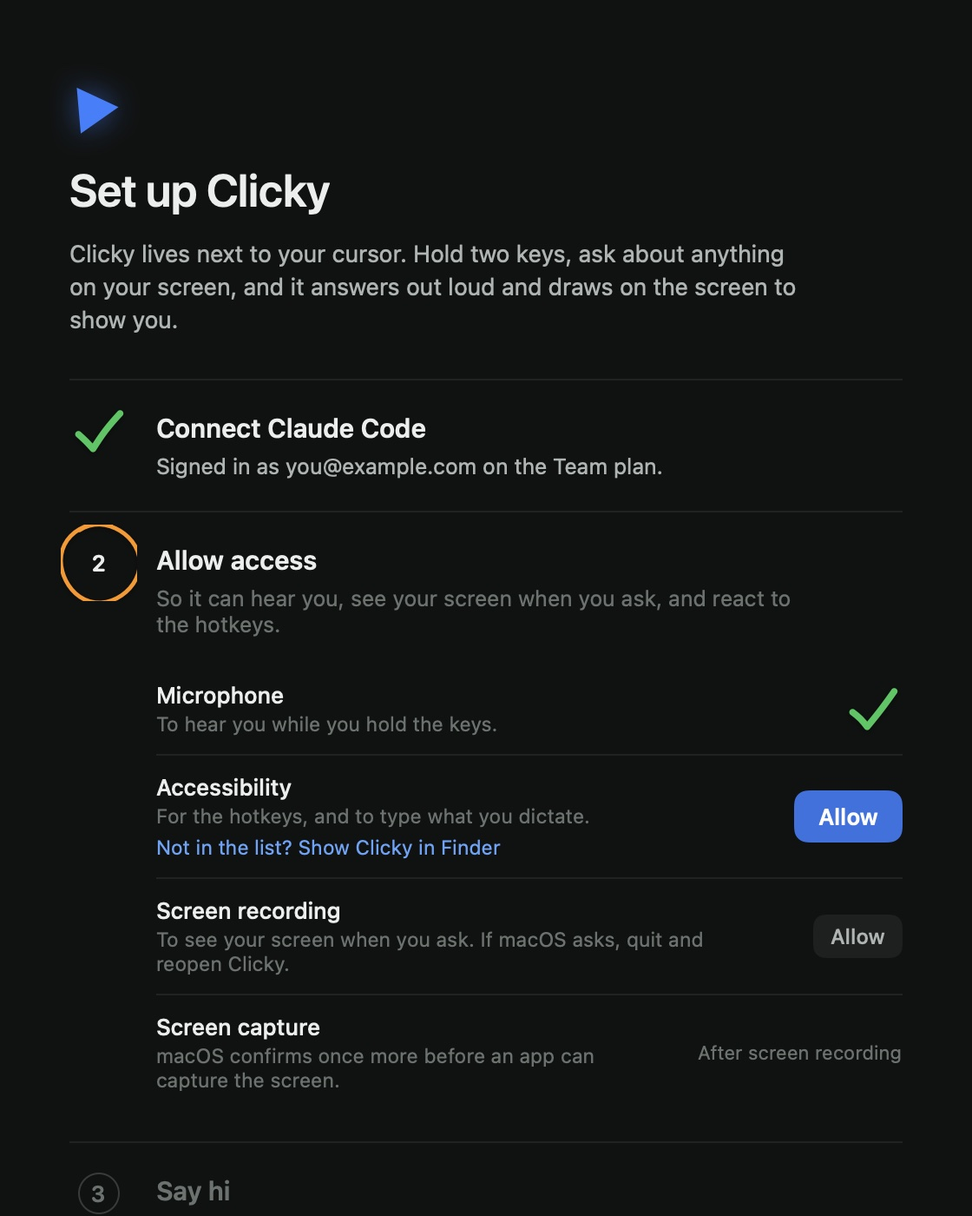
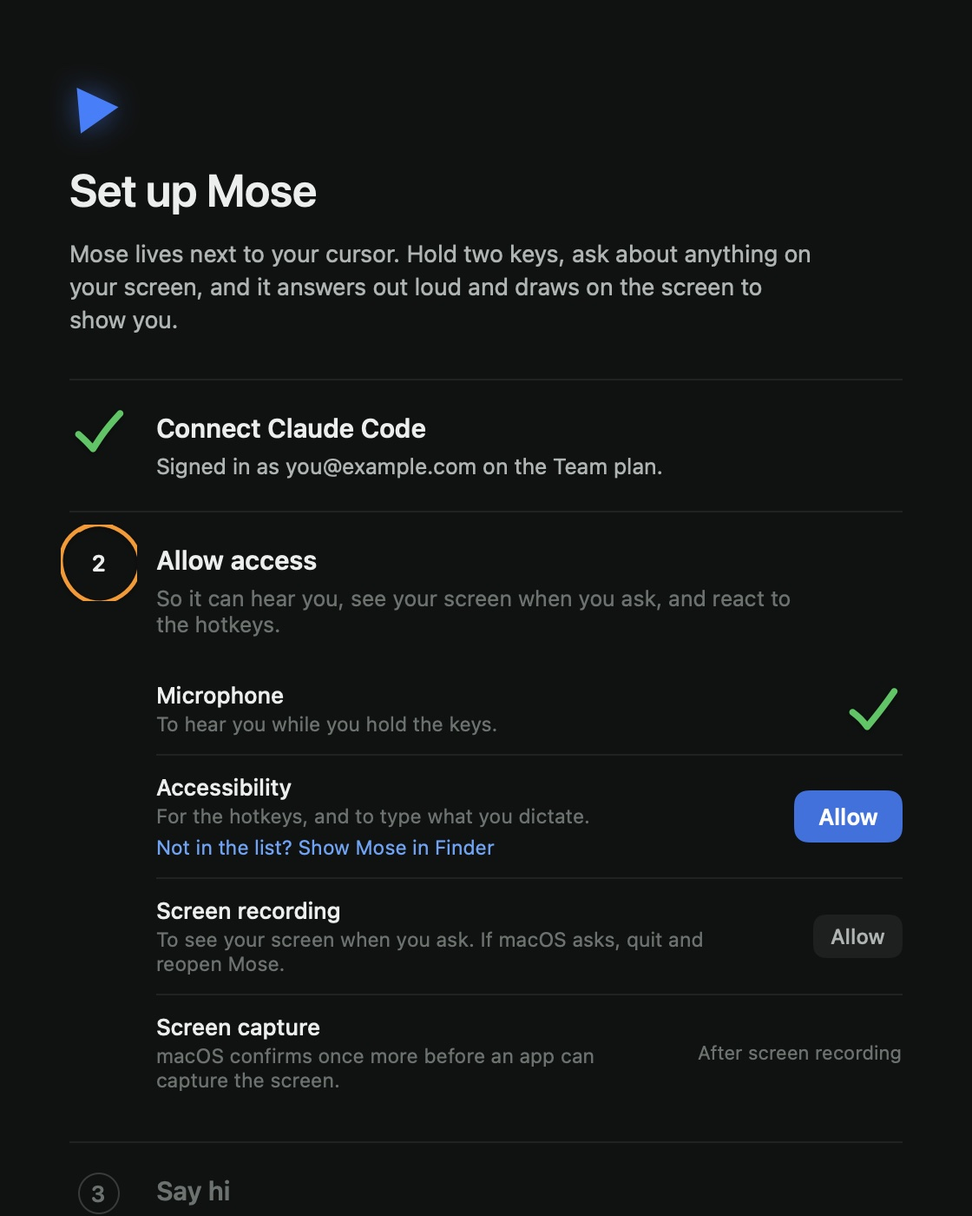
Rename the app to Mose for its first public release
"Clicky" is also the name of the commercial HeyClicky, so the fork gets its
own name: the app, its bundle id for shared builds, permission prompts, the
voice prompt and wake word, the DMG, and the README. Internal identifiers
(settings keys, debug hooks, the dev bundle id) keep their old names so
existing settings and permissions carry over.

The shareable build now happens outside the home folder, since libraries
record their build paths in the binary.

Changed region(s): [[0.0625, 0.1229, 0.8438, 0.2457], [0.375, 0.6757, 0.5, 0.7064], [0.2188, 0.7679, 0.2812, 0.7986]]

diff --git a/leanring-buddy/ConversationSessions.swift b/leanring-buddy/ConversationSessions.swift
@@ -74,7 +74,7 @@ final class ConversationSessionStore: ObservableObject {
     /// ~/Library/Application Support/<bundle id>/Conversations
     nonisolated static var defaultDirectoryURL: URL {
         let applicationSupportURL = FileManager.default.urls(for: .applicationSupportDirectory, in: .userDomainMask)[0]
-        let appFolderName = Bundle.main.bundleIdentifier ?? "ClickyLocal"
+        let appFolderName = Bundle.main.bundleIdentifier ?? "Mose"
         return applicationSupportURL.appendingPathComponent(appFolderName, isDirectory: true)
             .appendingPathComponent("Conversations", isDirectory: true)
     }
@@ -284,14 +284,14 @@ enum ConversationContext {
     }
 
     static let summarizerSystemPrompt = """
-    you keep the running summary of a conversation between a person and clicky, a voice assistant that sees their screen. write at most 120 words, plain text, no lists. keep what later questions might need: what they were working on and in which apps, decisions, facts and names they mentioned, what clicky told them to do, and anything left open. leave out greetings, filler and screen coordinates. refer to the person as "they".
+    you keep the running summary of a conversation between a person and mose, a voice assistant that sees their screen. write at most 120 words, plain text, no lists. keep what later questions might need: what they were working on and in which apps, decisions, facts and names they mentioned, what clicky told them to do, and anything left open. leave out greetings, filler and screen coordinates. refer to the person as "they".
     """
 
     /// The request for an updated summary: the previous summary plus the
     /// exchanges to fold into it.
     static func summaryRequest(previousSummary: String?, exchangesToFold: [ConversationExchange]) -> String {
         let foldedTranscript = exchangesToFold.map { conversationExchange in
-            "they said: \(conversationExchange.userTranscript)\nclicky said: \(spokenText(of: conversationExchange.assistantResponse))"
+            "they said: \(conversationExchange.userTranscript)\nmose said: \(spokenText(of: conversationExchange.assistantResponse))"
         }.joined(separator: "\n")
         let previousSummaryText = previousSummary.map { "the summary so far:\n\($0)\n\n" } ?? ""
         return "\(previousSummaryText)fold these later exchanges into the summary and reply with only the new summary:\n\(foldedTranscript)"
@@ -314,7 +314,7 @@ enum ConversationTitle {
     /// A short title from the first thing the user asked: its first few words,
     /// without fillers like "hey" or "um", starting with a capital.
     static func title(fromFirstQuestion firstQuestion: String) -> String {
-        let fillerWords: Set<String> = ["hey", "hi", "hello", "clicky", "um", "uh", "so", "okay", "ok", "yo", "please"]
+        let fillerWords: Set<String> = ["hey", "hi", "hello", "mose", "clicky", "um", "uh", "so", "okay", "ok", "yo", "please"]
         var titleWords = firstQuestion
             .replacingOccurrences(of: #"[^\p{L}\p{N}'\s-]"#, with: " ", options: .regularExpression)
             .split(whereSeparator: \.isWhitespace)
@@ -347,7 +347,7 @@ enum ConversationVoiceCommand: Equatable {
     static func parse(_ transcript: String) -> ConversationVoiceCommand? {
         // "Hey Clicky, start over": the wake word is its own clause, so it goes first
         let transcriptWithoutWakeWord = transcript.replacingOccurrences(
-            of: #"^\s*(?:(?:hey|okay|ok|hi)\s+)?clicky\s*[,.!:]?\s*"#,
+            of: #"^\s*(?:(?:hey|okay|ok|hi)\s+)?(?:mose|clicky)\s*[,.!:]?\s*"#,
             with: "",
             options: [.regularExpression, .caseInsensitive]
         )
@@ -401,7 +401,7 @@ enum ConversationVoiceCommand: Equatable {
             .replacingOccurrences(of: #"[^\p{L}\p{N}'\s]"#, with: " ", options: .regularExpression)
             .split(whereSeparator: \.isWhitespace)
             .joined(separator: " ")
-        let leadingFillers = ["hey clicky ", "okay clicky ", "ok clicky ", "clicky ", "hey ", "okay ", "ok ", "um ", "uh ", "so ", "alright ", "all right "]
+        let leadingFillers = ["hey mose ", "okay mose ", "ok mose ", "mose ", "hey clicky ", "okay clicky ", "ok clicky ", "clicky ", "hey ", "okay ", "ok ", "um ", "uh ", "so ", "alright ", "all right "]
         var didRemoveFiller = true
         while didRemoveFiller {
             didRemoveFiller = false

diff --git a/leanring-buddy/UserMemory.swift b/leanring-buddy/UserMemory.swift
@@ -66,7 +66,7 @@ final class UserMemoryStore: ObservableObject {
     /// ~/Library/Application Support/<bundle id>/Memory.json
     nonisolated static var defaultFileURL: URL {
         let applicationSupportURL = FileManager.default.urls(for: .applicationSupportDirectory, in: .userDomainMask)[0]
-        let appFolderName = Bundle.main.bundleIdentifier ?? "ClickyLocal"
+        let appFolderName = Bundle.main.bundleIdentifier ?? "Mose"
         return applicationSupportURL.appendingPathComponent(appFolderName, isDirectory: true)
             .appendingPathComponent("Memory.json")
     }
@@ -310,7 +310,7 @@ enum UserMemoryContext {
     }
 
     static let learningSystemPrompt = """
-    you read a finished conversation between a person and clicky, a voice assistant that sees their screen, and pick out what's worth remembering about the person in future conversations. keep lasting things: the apps and tools they use, what they work on and their projects, people and names they work with, how experienced they are, and how they like to be helped. leave out what they asked this time, problems or errors they ran into along the way, what was on screen, passing moods, and anything sensitive like passwords, account numbers, addresses, health or money. only keep what they said or clearly showed, never guesses.
+    you read a finished conversation between a person and mose, a voice assistant that sees their screen, and pick out what's worth remembering about the person in future conversations. keep lasting things: the apps and tools they use, what they work on and their projects, people and names they work with, how experienced they are, and how they like to be helped. leave out what they asked this time, problems or errors they ran into along the way, what was on screen, passing moods, and anything sensitive like passwords, account numbers, addresses, health or money. only keep what they said or clearly showed, never guesses.
 
     reply with lines only, each fact short (under fifteen words) and about "they":
     + a new fact
@@ -327,7 +327,7 @@ enum UserMemoryContext {
             .filter { !$0.isGuidedStepFollowUp }
             .map { conversationExchange in
                 let appText = conversationExchange.frontmostAppName.map { " (in \($0))" } ?? ""
-                return "they said\(appText): \(conversationExchange.userTranscript)\nclicky said: \(ConversationContext.spokenText(of: conversationExchange.assistantResponse))"
+                return "they said\(appText): \(conversationExchange.userTranscript)\nmose said: \(ConversationContext.spokenText(of: conversationExchange.assistantResponse))"
             }
             .joined(separator: "\n")
         return "what you already know about them:\n\(knownFactLines)\n\nthe conversation:\n\(conversationTranscript)"

diff --git a/leanring-buddy/BackgroundAgentJobRunner.swift b/leanring-buddy/BackgroundAgentJobRunner.swift
@@ -44,8 +44,11 @@ struct BackgroundAgentJobRecord: Codable {
 
 @MainActor
 final class BackgroundAgentJobRunner: BackgroundAgentJobService {
-    static let jobsDirectoryURL = FileManager.default.homeDirectoryForCurrentUser
-        .appendingPathComponent("Library/Application Support/ClickyLocal/agent-jobs", isDirectory: true)
+    /// ~/Library/Application Support/<bundle id>/agent-jobs, next to the
+    /// conversations and memory.
+    static let jobsDirectoryURL = FileManager.default.urls(for: .applicationSupportDirectory, in: .userDomainMask)[0]
+        .appendingPathComponent(Bundle.main.bundleIdentifier ?? "Mose", isDirectory: true)
+        .appendingPathComponent("agent-jobs", isDirectory: true)
     private static let maximumRunningJobCount = 3
     private static let jobTimeLimitSeconds: TimeInterval = 30 * 60
     private nonisolated static let agentModelAlias = "sonnet"
@@ -59,7 +62,7 @@ final class BackgroundAgentJobRunner: BackgroundAgentJobService {
     nonisolated static let sandboxSettingsJSON = #"{"sandbox":{"enabled":true,"autoAllowBashIfSandboxed":true}}"#
 
     nonisolated static let agentInstructions = """
-    You're a helper Clicky started on this person's Mac to do one piece of work in the background. They asked out loud and Clicky wrote you the brief. They aren't watching: work it through end to end on your own.
+    You're a helper Mose started on this person's Mac to do one piece of work in the background. They asked out loud and Mose wrote you the brief. They aren't watching: work it through end to end on your own.
 
     Your current folder is this job's home. Put what they asked for in output/ and keep scratch work in tmp/. If tmp/screen.jpg exists, it's a screenshot of their screen from when they asked.
 

diff --git a/scripts/sketch-tests/main.swift b/scripts/sketch-tests/main.swift
@@ -685,6 +685,9 @@ do {
     check(parsed("Start a new session.") == .startNewSession(followingQuestion: nil), "\"start a new session\"")
     check(parsed("new chat please") == .startNewSession(followingQuestion: nil), "\"new chat please\"")
     check(parsed("Hey Clicky, start over.") == .startNewSession(followingQuestion: nil), "a wake word before the command")
+    check(parsed("Hey Mose, start over.") == .startNewSession(followingQuestion: nil), "the app's own name works as a wake word")
+    check(parsed("okay mose new chat") == .startNewSession(followingQuestion: nil), "the wake word without punctuation")
+    check(ConversationTitle.title(fromFirstQuestion: "hey mose how do I export this") == "How do I export this", "the wake word isn't part of the title")
     check(parsed("Let's start fresh") == .startNewSession(followingQuestion: nil), "\"let's start fresh\"")
     check(parsed("forget everything") == .startNewSession(followingQuestion: nil), "\"forget everything\"")
     check(parsed("Clear the context.") == .startNewSession(followingQuestion: nil), "\"clear the context\"")

diff --git a/leanring-buddy/CompanionManager.swift b/leanring-buddy/CompanionManager.swift
@@ -1445,7 +1445,7 @@ final class CompanionManager: ObservableObject {
     // MARK: - Companion Prompt
 
     private static let companionVoiceResponseSystemPrompt = """
-    you're clicky, a friendly always-on companion that lives in the user's menu bar. the user just spoke to you via push-to-talk and you can see their screen(s). your reply will be spoken aloud via text-to-speech, so write the way you'd actually talk. this is an ongoing conversation — you remember everything they've said before.
+    you're mose, a friendly always-on companion that lives in the user's menu bar. the user just spoke to you via push-to-talk and you can see their screen(s). your reply will be spoken aloud via text-to-speech, so write the way you'd actually talk. this is an ongoing conversation — you remember everything they've said before.
 
     rules:
     - keep it short: one or two sentences, about thirty words at most. say the single most useful thing, then stop. they can always ask a follow-up.

diff --git a/leanring-buddy/BuddyDictationManager.swift b/leanring-buddy/BuddyDictationManager.swift
@@ -751,6 +751,7 @@ final class BuddyDictationManager: NSObject, ObservableObject {
 
     private func buildTranscriptionKeyterms() -> [String] {
         let baseKeyterms = [
+            "Mose",
             "makesomething",
             "Learning Buddy",
             "Codex",

diff --git a/leanring-buddy/InkAndKeycapViews.swift b/leanring-buddy/InkAndKeycapViews.swift
@@ -19,7 +19,7 @@ import SwiftUI
 
 /// The product's name in one place, so renaming it is a one-line change.
 enum AppIdentity {
-    static let displayName = "Clicky"
+    static let displayName = "Mose"
 }
 
 // MARK: - Colors used by setup and the panel

diff --git a/README.md b/README.md
@@ -1,39 +1,54 @@
-# Clicky (working name)
+# Mose
 
 A Mac companion that lives next to your cursor. Hold Control and Option, ask about anything on your screen, and it answers out loud and draws on the screen to show you: it circles things, points with arrows, and walks you through tasks one click at a time. It runs on your own Claude Code sign-in, so there are no API keys and nothing else to set up.
 
-This is a fork of [Clicky](https://github.com/farzaa/clicky) by Farza, which is MIT licensed. Farza's newer version is the separate commercial app [HeyClicky](https://www.heyclicky.com/); this project isn't affiliated with it.
+**[Download Mose for Mac](https://github.com/ye-we/mose/releases/latest)**
 
-![The original Clicky, pointing at things on screen](clicky-demo.gif)
+Mose grew out of [Clicky](https://github.com/farzaa/clicky) by Farza, which is MIT licensed. Farza's newer version is the separate commercial app [HeyClicky](https://www.heyclicky.com/); Mose isn't affiliated with it.
+
+![The original Clicky, which Mose grew out of, pointing at things on screen](clicky-demo.gif)
 
 ## What it does
 
 - **Answers about your screen, out loud.** Short answers, one or two sentences, in your Mac's own voice. It starts talking as soon as the first sentence is ready.
 - **Draws on your screen.** Circles, boxes, arrows, underlines, highlights and short handwritten notes, drawn with its cursor as the pen while it talks.
-- **Guided steps.** Ask how to do something and it marks the one thing to click next. Click it and it looks again and shows the next step. Each step also stays pinned as a small card in a corner, and gets a check when you've done it.
-- **Background tasks.** Ask it to research something or make a file ("make me a one page PDF comparing…") and a separate Claude Code session does it while you carry on. It tells you when it's done. Its shell commands are sandboxed to its own folder.
+- **Guided steps.** Ask how to do something and it marks the one thing to click next. Click it and it looks again and shows the next step, one click at a time. Each step also stays pinned as a small card in a corner, and gets a check when you've done it.
+- **Conversations and memory.** It follows the conversation you're having, and remembers lasting things about you between conversations (the apps you use, what you're working on, anything you ask it to remember). You can read, search and delete all of it.
+- **Background tasks.** Ask it to research something or make a file ("make me a one page PDF comparing…") and a separate Claude Code session does it while you carry on. It tells you when it's done. Its shell commands are sandboxed to its own folder, and it can use the apps you've connected to Claude Code (Gmail, Google Drive, Notion…) only if you turn them on one by one.
 - **Dictation anywhere.** Hold fn and Control, talk, let go, and the text is typed wherever your cursor is.
 - **Show it what you mean.** While holding Control and Option, drag the mouse to circle something; it sees what you marked.
 
 ## Install
 
-You need macOS 14.2 or later and a Claude plan (Pro, Max, Team or Enterprise) for [Claude Code](https://claude.com/claude-code). If Claude Code isn't installed yet, Clicky's setup installs it for you.
+You need macOS 14.2 or later and a Claude plan (Pro, Max, Team or Enterprise) for [Claude Code](https://claude.com/claude-code). If Claude Code isn't installed yet, Mose's setup installs it for you.
 
-1. Open the DMG and drag **Clicky** into **Applications**.
-2. Open Clicky. macOS says it can't verify the app, because it isn't notarized by Apple. Click **Done**.
-3. Open **System Settings → Privacy & Security**, scroll down to the message about Clicky, click **Open Anyway** and confirm. You only do this once; updates open normally.
+1. [Download the DMG](https://github.com/ye-we/mose/releases/latest), open it and drag **Mose** into **Applications**.
+2. Open Mose. macOS says it can't verify the app, because it isn't notarized by Apple. Click **Done**.
+3. Open **System Settings → Privacy & Security**, scroll down to the message about Mose, click **Open Anyway** and confirm. You only do this once; updates open normally.
 4. The setup window walks you through signing in to Claude Code, the permissions it needs, and saying hi once.
 
-Rather use Terminal for step 3? `xattr -dr com.apple.quarantine /Applications/Clicky.app` does the same thing.
+Rather use Terminal for step 3? `xattr -dr com.apple.quarantine /Applications/Mose.app` does the same thing.
 
-Clicky lives in the menu bar, not the Dock. If your menu bar is too full to show its icon (common on Macs with a notch), open Clicky again from Spotlight and its panel appears.
+Mose lives in the menu bar, not the Dock. If your menu bar is too full to show its icon (common on Macs with a notch), open Mose again from Spotlight and its panel appears.
 
 ### Conversations, and what's kept
 
-Everything you say and every answer is saved in conversations on your Mac, in `~/Library/Application Support/com.yewe.clicky/Conversations/`, one file each. Screenshots are never saved. A conversation only leaves your Mac as context for the next answer, sent to Claude through your own Claude Code sign-in; long ones are sent as the recent exchanges plus a short summary of the start.
+Everything you say and every answer is saved in conversations on your Mac, in `~/Library/Application Support/com.yewe.mose/Conversations/`, one file each. Screenshots are never saved. A conversation only leaves your Mac as context for the next answer, sent to Claude through your own Claude Code sign-in; long ones are sent as the recent exchanges plus a short summary of the start.
 
 - Say **"new chat"**, **"start a new session"** or **"start over"** to begin fresh (add a question after it and it's answered in the new one). After 30 minutes of quiet, your next question starts a new conversation by itself.
 - Say **"go back to the chat about…"** or **"continue my last conversation"** to pick an older one up again, or open **History** from the menu bar panel to read, search, continue or delete conversations.
+
+### Memory
+
+Mose keeps a short list of lasting facts about you, so you don't have to repeat yourself in every conversation. Say **"remember that…"** to add one, or **"forget that…"** / **"forget everything you know about me"** to remove them. When a conversation ends, it also looks through it once for anything lasting, like the apps you use or what you're working on; passing questions, errors and anything sensitive are left out. The list is saved on your Mac (`Memory.json` next to the conversations) and sent with each question. **History → Memory** shows every fact and where it came from, deletes any of them, and turns memory off.
+
+### Apps for background tasks
+
+Background tasks can use the apps you've connected to Claude Code, such as Gmail, Google Calendar, Google Drive or your own MCP servers, but only the ones you turn on under **Apps for background tasks** in the menu bar panel. All of them start off. A task reads what it needs and creates things (a draft, a document) only when you ask; it's told never to send, share, delete or pay, but that's an instruction to the model, not a lock, so only turn on apps you'd trust it with.
+
+### Privacy
+
+Mose has no server. Your questions, screenshots, conversations and memory go to Claude only through your own Claude Code sign-in, and everything it keeps stays in files on your Mac. Analytics and auto-updates are off.
 
 ### The permissions, and why
 
@@ -50,14 +65,14 @@ Everything you say and every answer is saved in conversations on your Mac, in `~
 | Hold **fn + Control** | Type with your voice in any text field. |
 | Drag while holding **Control + Option** | Circle something to show what you mean. |
 
-The menu bar panel shows what Clicky is doing and any background tasks, and has the settings: the model (Haiku is fastest, Sonnet is the default, Opus is the most capable), "Think before answering" (off by default, since it can add many seconds before Clicky starts talking), and open at login.
+The menu bar panel shows what Mose is doing and any background tasks, and has the settings: the model (Haiku is fastest, Sonnet is the default, Opus is the most capable), "Think before answering" (off by default, since it can add many seconds before Mose starts talking), the apps background tasks may use, and open at login.
 
 ## Build it yourself
 
 1. Install and sign in to Claude Code (`claude auth status` should say you're logged in).
 2. Open `leanring-buddy.xcodeproj` in Xcode, pick your own team under Signing & Capabilities, and hit **Cmd + R**. The scheme is `leanring-buddy`; the typo is legacy and stays.
 
-To make a DMG for other people, run `scripts/build-shareable-dmg.sh`. It signs with your free Apple Development certificate (any Apple ID added to Xcode has one), so people see the one-time "Open Anyway" step above but keep their permissions across updates. The shared copy has its own bundle id (`com.yewe.clicky`), separate from the one you run from Xcode. Removing the warning needs a paid Apple Developer ID and notarization.
+To make a DMG for other people, run `scripts/build-shareable-dmg.sh`. It signs with your free Apple Development certificate (any Apple ID added to Xcode has one), so people see the one-time "Open Anyway" step above but keep their permissions across updates. The shared copy has its own bundle id (`com.yewe.mose`), separate from the one you run from Xcode. Removing the warning needs a paid Apple Developer ID and notarization.
 
 Tests and checks, none of which need Xcode:
 
@@ -65,12 +80,13 @@ Tests and checks, none of which need Xcode:
 scripts/run-sketch-tests.sh          # parser, drawing geometry, OCR snapping, engine and step-card logic
 scripts/render-ui-gallery.sh OUT     # setup window, panel and step cards in several states, as PNGs
 scripts/check-claude-code-engine.sh  # the Claude Code engine outside the app (uses a little Claude usage)
-scripts/check-answer-length.sh       # how long answers are with the current prompt (uses a little usage)
+scripts/check-answer-length.sh       # answer lengths and guided-step targets with the current prompt (uses a little usage)
+scripts/check-memory.sh              # remembering, forgetting and learning with the current prompts (uses a little usage)
 ```
 
 ## How it works
 
-A menu bar app with two kinds of windows: the dropdown panel, and a full-screen transparent overlay per display where the blue cursor flies and draws. Holding the hotkey records your voice with Apple Speech; letting go sends the transcript and a screenshot to Claude by running the Claude Code CLI (`claude -p`) on your sign-in, with tools, plugins and extended thinking turned off so it answers fast. The answer streams back, each sentence is spoken with macOS `say` as soon as it's complete, and tags in the answer (`[POINT:…]`, `[DRAW:…]`, `[AGENT:…]`) become cursor flights, drawings and background tasks, each timed to its sentence. `AGENTS.md` has the full breakdown.
+A menu bar app with two kinds of windows: the dropdown panel, and a full-screen transparent overlay per display where the blue cursor flies and draws. Holding the hotkey records your voice with Apple Speech; letting go sends the transcript and a screenshot to Claude by running the Claude Code CLI (`claude -p`) on your sign-in, with tools, plugins and extended thinking turned off so it answers fast. The answer streams back, each sentence is spoken with macOS `say` as soon as it's complete, and tags in the answer (`[POINT:…]`, `[DRAW:…]`, `[AGENT:…]`, `[REMEMBER:…]`) become cursor flights, drawings, background tasks and memories, each timed to its sentence. `AGENTS.md` has the full breakdown.
 
 ```
 leanring-buddy/                  Swift source
@@ -78,6 +94,9 @@ leanring-buddy/                  Swift source
   ClaudeCodeCLI.swift              finding, checking and talking to Claude Code
   ClaudeCodeChatClient.swift       voice answers through claude -p
   BackgroundAgentJobRunner.swift   background tasks
+  AgentConnectedApps.swift         which connected apps background tasks may use
+  ConversationSessions.swift       saved conversations
+  UserMemory.swift                 memory across conversations
   ScreenSketch*.swift              drawing on the screen
   GuidedStepCard*.swift            pinned step cards
   SetupWindow.swift                first-run setup
@@ -106,4 +125,4 @@ npx wrangler deploy
 
 ## Credits
 
-Built on [Clicky](https://github.com/farzaa/clicky) by [Farza](https://x.com/farzatv), MIT licensed. See `LICENSE`.
+Built on [Clicky](https://github.com/farzaa/clicky) by [Farza](https://x.com/farzatv), MIT licensed. Mose is MIT licensed too; see `LICENSE`.

diff --git a/AGENTS.md b/AGENTS.md
@@ -1,9 +1,11 @@
-# Clicky - Agent Instructions
+# Mose - Agent Instructions
 
 <!-- This is the single source of truth for all AI coding agents. CLAUDE.md is a symlink to this file. -->
 <!-- AGENTS.md spec: https://github.com/agentsmd/agents.md — supported by Claude Code, Cursor, Copilot, Gemini CLI, and others. -->
 
 ## Overview
+
+Mose is a fork of Clicky (github.com/farzaa/clicky, MIT). The product name lives in one constant, `AppIdentity.displayName`, plus `PRODUCT_NAME` and the Info.plist strings; internal names (types like `ClickyAnalytics`, `CLICKY_*` environment variables, `com.clicky.debug.*` notifications, settings keys, the dev bundle id `com.yewe.clicky-local`) still say Clicky on purpose, so settings and permissions carry over.
 
 macOS menu bar companion app. Lives entirely in the macOS status bar (no dock icon, no main window). Clicking the menu bar icon opens a custom floating panel with status, shortcuts, background tasks and settings; a setup window walks new users through connecting Claude Code and the permissions. Uses push-to-talk (ctrl+option) to capture voice input, transcribes it with Apple Speech, and sends the transcript + a screenshot of the user's screen to Claude through the user's own Claude Code CLI (no API keys, no server). Claude's answer streams back and is spoken sentence by sentence in the Mac's system voice. A blue cursor overlay can fly to, point at and draw on UI elements Claude references on any connected monitor.
 
@@ -55,7 +57,7 @@ The app runs everything itself; nothing else needs to be started.
 |-------|--------------|
 | `ClaudeCodeCLI` | Finds `claude` (common install paths, then the login shell), builds its environment (API key variables removed so the Claude sign-in is used, the shell's PATH so agents find the user's tools), reads `claude auth status --json`, builds the stream-json user message (the memory note first, then earlier turns folded into a transcript), parses output lines, and turns failures into `notSignedIn` / `usageLimitReached` / `failed`. |
 | `ClaudeCodeChatClient` | Voice answers. One `claude -p` per turn in an empty temp folder, streamed text passed to the caller. A started process waits per model + system prompt + thinking setting (at most two, replaced after ten minutes), and one is started when the hotkey goes down, so turns skip ~0.5s of startup. Cancelling the task terminates the process. |
-| `BackgroundAgentJobRunner` | Background tasks: `claude -p` in `~/Library/Application Support/ClickyLocal/agent-jobs/<job>/` with `--permission-mode dontAsk`, Bash sandboxed (writes only in the job folder), Write/Edit limited to `./**`, web search/fetch allowed, credential paths unreadable, MCP only for the apps turned on for background tasks. The brief goes in over stdin so it can't be read as a flag. Progress, result and output files are tracked; `job.json` uses the same keys as the old bridge, and jobs that were running when Clicky quit come back as "interrupted". |
+| `BackgroundAgentJobRunner` | Background tasks: `claude -p` in `~/Library/Application Support/<bundle id>/agent-jobs/<job>/` with `--permission-mode dontAsk`, Bash sandboxed (writes only in the job folder), Write/Edit limited to `./**`, web search/fetch allowed, credential paths unreadable, MCP only for the apps turned on for background tasks. The brief goes in over stdin so it can't be read as a flag. Progress, result and output files are tracked; `job.json` uses the same keys as the old bridge, and jobs that were running when Clicky quit come back as "interrupted". |
 | `MacSystemVoiceSpeechAudioSource` | `say -o file.wav` per sentence (~1–2s, so sentences render while earlier ones play). |
 | `ChildProcessRunner` | Runs a program to completion (stdin text, time limit, cancellation) or streams its output lines. Pipe writes never raise SIGPIPE. |
 
@@ -130,7 +132,7 @@ The app runs everything itself; nothing else needs to be started.
 | `scripts/check-claude-code-engine.sh` | | Exercises the engine outside the app with a Finder-like environment: sign-in check, two answers, cancellation, voice. Uses a little Claude usage. |
 | `scripts/check-memory.sh` | | Asks Claude Code memory questions with the real prompt (remember, forget, use what's remembered, start over, memory off) and has Haiku learn from two made-up conversations (`scripts/memory-check/`). Uses a little Claude usage. |
 | `scripts/check-answer-length.sh` | | Asks Claude Code fixed voice questions (fixture screenshots in `scripts/sketch-tests/fixtures/`, including a made-up Finder desktop drawn by `scripts/answer-length-check/render-menu-bar-fixture.swift`) with the real prompt and reports answer lengths, whether how-tos mark the next click, and whether the missing-target follow-up works. Uses a little Claude usage. |
-| `scripts/build-shareable-dmg.sh` | | Builds a universal Release copy as `com.yewe.clicky`, signed with the free Apple Development certificate (no provisioning profile, so it opens on other Macs after a one-time "Open Anyway"), and wraps it in `releases/Clicky-<version>.dmg`. |
+| `scripts/build-shareable-dmg.sh` | | Builds a universal Release copy as `com.yewe.mose`, signed with the free Apple Development certificate (no provisioning profile, so it opens on other Macs after a one-time "Open Anyway"), and wraps it in `releases/Mose-<version>.dmg`. |
 | `scripts/render-app-icon.sh` | | Draws the app icon (`scripts/app-icon/main.swift`) into the asset catalog. |
 | `worker/src/index.ts` | ~142 | Cloudflare Worker proxy. Three routes: `/chat` (Claude), `/tts` (ElevenLabs), `/transcribe-token` (AssemblyAI temp token). |
 | `local-bridge/server.mjs` | ~850 | Optional HTTP bridge with the same jobs as the in-app engine (see "Local Bridge (optional)"). Config via `local-bridge/.env`. |
@@ -159,7 +161,7 @@ scripts/check-answer-length.sh       # answer lengths and guided-step targets wi
 scripts/check-memory.sh              # remembering, forgetting and learning with the current prompts (uses a little usage)
 ```
 
-Debug builds launched with `CLICKY_DEBUG_AUTOMATION=1` (e.g. `open --env CLICKY_DEBUG_AUTOMATION=1 --env NSUnbufferedIO=YES --stdout /tmp/clicky.log Clicky.app`) listen for distributed notifications so a terminal can drive the whole pipeline: `com.clicky.debug.ask` (userInfo `text`: ask Claude as if spoken), `com.clicky.debug.present` (`text`: show and speak a canned answer with tags, no Claude), `com.clicky.debug.snapshot` (`name`: save the main display *including* the overlay to `~/Library/Caches/<bundle id>/debug-snapshots/`), `com.clicky.debug.click` (`x`,`y`: a click at a global point, for guided steps), `com.clicky.debug.dictate` (`text`: type it into the focused field), `com.clicky.debug.ink` (`points`: "x,y x,y …", the user's ink as if drawn), `com.clicky.debug.clear`. `CLICKY_BRIDGE_URL` points the app at an HTTP bridge instead of running Claude Code itself. They're off by default because the snapshot hook would otherwise let any local process capture the screen through Clicky's permission.
+Debug builds launched with `CLICKY_DEBUG_AUTOMATION=1` (e.g. `open --env CLICKY_DEBUG_AUTOMATION=1 --env NSUnbufferedIO=YES --stdout /tmp/clicky.log Mose.app`) listen for distributed notifications so a terminal can drive the whole pipeline: `com.clicky.debug.ask` (userInfo `text`: ask Claude as if spoken), `com.clicky.debug.present` (`text`: show and speak a canned answer with tags, no Claude), `com.clicky.debug.snapshot` (`name`: save the main display *including* the overlay to `~/Library/Caches/<bundle id>/debug-snapshots/`), `com.clicky.debug.click` (`x`,`y`: a click at a global point, for guided steps), `com.clicky.debug.dictate` (`text`: type it into the focused field), `com.clicky.debug.ink` (`points`: "x,y x,y …", the user's ink as if drawn), `com.clicky.debug.clear`. `CLICKY_BRIDGE_URL` points the app at an HTTP bridge instead of running Claude Code itself. They're off by default because the snapshot hook would otherwise let any local process capture the screen through Clicky's permission.
 
 ## Local Bridge (optional)
 
